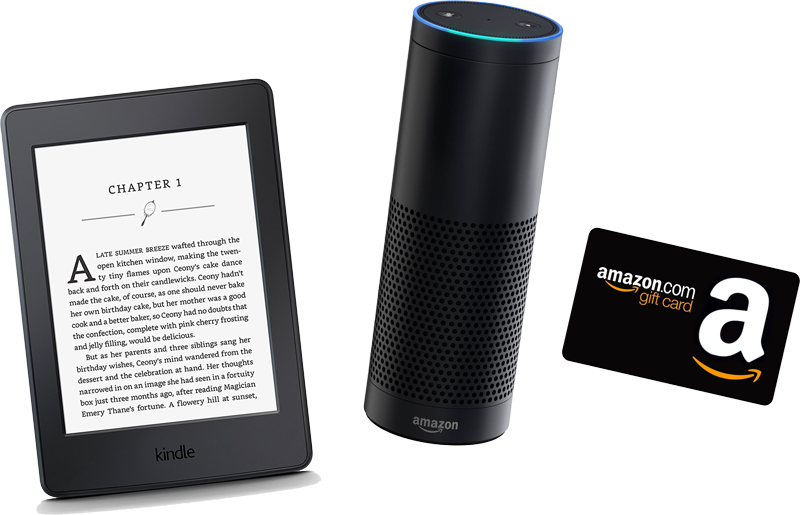
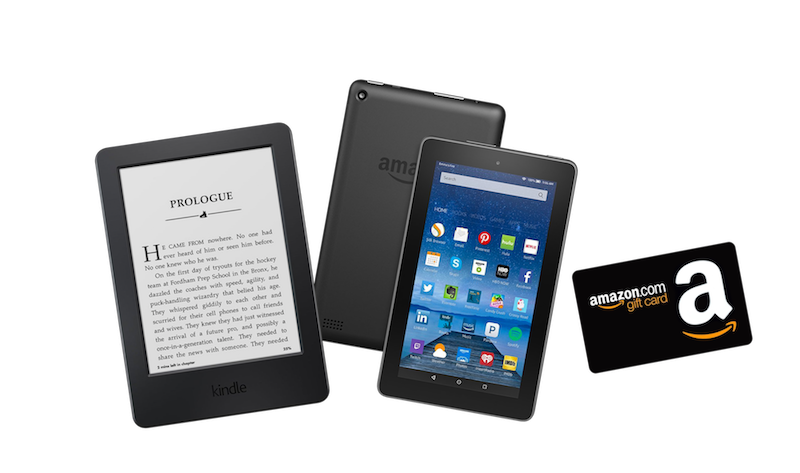
Update prizes

diff --git a/5.0/css/style.css b/5.0/css/style.css
@@ -1,1 +1,1 @@
-@font-face{font-family:Sanomat Sans;font-weight:300;src:url(../fonts/SanomatSans-Light-Web.woff)}@font-face{font-family:Sanomat Sans;font-weight:400;src:url(../fonts/SanomatSans-Regular-Web.woff)}@font-face{font-family:Sanomat Sans;font-weight:500;src:url(../fonts/SanomatSans-Medium-Web.woff)}body,html{color:#565d6b;font-family:Sanomat Sans,sans-serif;font-size:14px;overflow-x:hidden}@media (max-width:768px){body,html{font-size:16px}}a{color:#488be4;transition:color .3s linear}a:focus,a:hover{color:#326bbf}.hidden{display:none}@media (min-width:768px){.container{width:768px}}.banner{margin-bottom:100px}.banner .event-date{color:#00ba51;font-size:1.7143rem;margin:2rem 0}.logo{display:block;margin:2rem auto 4rem;max-width:320px;width:80%}.btn-cta{background-color:#363a45;font-size:1.2857rem;padding:20px 60px;text-transform:uppercase}.btn-cta,.btn-cta:focus,.btn-cta:hover{color:#fff}.btn-cta+.btn-cta-deadline{color:#898d97;font-size:1.2857rem;margin-top:1rem}#countdown{text-align:center}#countdown .countdown-value{font-size:96px;font-weight:700}#countdown .countdown-unit{font-size:48px;transform:translateY(-25px)}#countdown .countdown-col{padding:10px}#countdown .countdown-col .countdown-col-content{border:2px solid #fff;border-radius:5px;padding:10px}.section{position:relative}.section:nth-child(even){background-color:#f7f9fb}.section .section-col{padding:5rem 3rem}.section .section-heading{color:#00ba51;font-size:3.4286rem;font-weight:300;letter-spacing:3px;text-transform:uppercase}.section .section-subheading{color:#363a45;font-size:1.2857rem;font-weight:700;margin-bottom:1rem}.section .subsection{margin:3rem 0}.section .subsection:first-of-type{margin-top:2rem}.section .section-background{background-size:cover;height:100%;width:50%;position:absolute}@media (max-width:768px){.section .section-background{height:400px;width:100%;position:static}}.themes-section .themes-background{background-image:url(../img/presentation.jpg);background-size:cover}.prizes-section .prizes-background{background-image:url(../img/prizes.png);background-position:50% 100%;background-repeat:no-repeat;background-size:80%;right:0}.prizes-section .sponsor{color:#898d97;font-size:.875rem}.rules-section{background-image:url(../img/wrench.svg),url(../img/flag.svg);background-repeat:no-repeat;background-size:20%,30%;background-position:-7% 100%,115% 7%}.schedule-section .schedule-background{background-image:url(../img/audience.jpg);background-position:70%;right:0}.schedule-section .timing{display:inline-block;vertical-align:top;width:30%}.schedule-section .event{display:inline-block;width:70%}.queries-section .cap{margin-bottom:2rem;max-width:200px;width:50%}.queries-section .text{font-size:1.2857rem}.footer-section{background-image:url(../img/footer.jpg);background-size:cover;padding:4rem 0 1.75rem}
+@font-face{font-family:Sanomat Sans;font-weight:300;src:url(../fonts/SanomatSans-Light-Web.woff)}@font-face{font-family:Sanomat Sans;font-weight:400;src:url(../fonts/SanomatSans-Regular-Web.woff)}@font-face{font-family:Sanomat Sans;font-weight:500;src:url(../fonts/SanomatSans-Medium-Web.woff)}body,html{color:#565d6b;font-family:Sanomat Sans,sans-serif;font-size:14px;overflow-x:hidden}@media (max-width:768px){body,html{font-size:16px}}a{color:#488be4;transition:color .3s linear}a:focus,a:hover{color:#326bbf}.hidden{display:none}@media (min-width:768px){.container{width:768px}}.banner{margin-bottom:100px}.banner .event-date{color:#00ba51;font-size:1.7143rem;margin:2rem 0}.logo{display:block;margin:2rem auto 4rem;max-width:320px;width:80%}.btn-cta{background-color:#363a45;font-size:1.2857rem;padding:20px 60px;text-transform:uppercase}.btn-cta,.btn-cta:focus,.btn-cta:hover{color:#fff}.btn-cta+.btn-cta-deadline{color:#898d97;font-size:1.2857rem;margin-top:1rem}#countdown{text-align:center}#countdown .countdown-value{font-size:96px;font-weight:700}#countdown .countdown-unit{font-size:48px;transform:translateY(-25px)}#countdown .countdown-col{padding:10px}#countdown .countdown-col .countdown-col-content{border:2px solid #fff;border-radius:5px;padding:10px}.section{position:relative}.section:nth-child(even){background-color:#f7f9fb}.section .section-col{padding:5rem 3rem}.section .section-heading{color:#00ba51;font-size:3.4286rem;font-weight:300;letter-spacing:3px;text-transform:uppercase}.section .section-subheading{color:#363a45;font-size:1.2857rem;font-weight:700;margin-bottom:1rem}.section .subsection{margin:3rem 0}.section .subsection:first-of-type{margin-top:2rem}.section .section-background{background-size:cover;height:100%;width:50%;position:absolute}@media (max-width:768px){.section .section-background{height:400px;width:100%;position:static}}.themes-section .themes-background{background-image:url(../img/presentation.jpg);background-size:cover}.prizes-section .prizes-background{background-image:url(../img/prizes.png);background-position:50% 100%;background-repeat:no-repeat;background-size:100%;right:0}.prizes-section .sponsor{color:#898d97;font-size:.875rem}.rules-section{background-image:url(../img/wrench.svg),url(../img/flag.svg);background-repeat:no-repeat;background-size:20%,30%;background-position:-7% 100%,115% 7%}.schedule-section .schedule-background{background-image:url(../img/audience.jpg);background-position:70%;right:0}.schedule-section .timing{display:inline-block;vertical-align:top;width:30%}.schedule-section .event{display:inline-block;width:70%}.queries-section .cap{margin-bottom:2rem;max-width:200px;width:50%}.queries-section .text{font-size:1.2857rem}.footer-section{background-image:url(../img/footer.jpg);background-size:cover;padding:4rem 0 1.75rem}

diff --git a/5.0/index.html b/5.0/index.html
@@ -99,11 +99,11 @@
                         <small class="sponsor">Sponsored by Amazon</small>
                         <div class="subsection">
                             <h3 class="section-subheading">1st place</h3>
-                            <p>Amazon Echo / Amazon Kindles<br/> Amazon Gift Cards ($150)</p>
+                            <p>Fire HD Tablet 10</p>
                         </div>
                         <div class="subsection">
                             <h3 class="section-subheading">2nd place</h3>
-                            <p>Amazon Gift Cards ($50)</p>
+                            <p>Fire Tablet</p>
                         </div>
                     </div>
                 </div>

diff --git a/5.0/sass/style.scss b/5.0/sass/style.scss
@@ -172,7 +172,7 @@ a {
     background-image: url('../img/prizes.png');
     background-position: 50% 100%;
     background-repeat: no-repeat;
-    background-size: 80%;
+    background-size: 100%;
     right: 0;
   }
 
